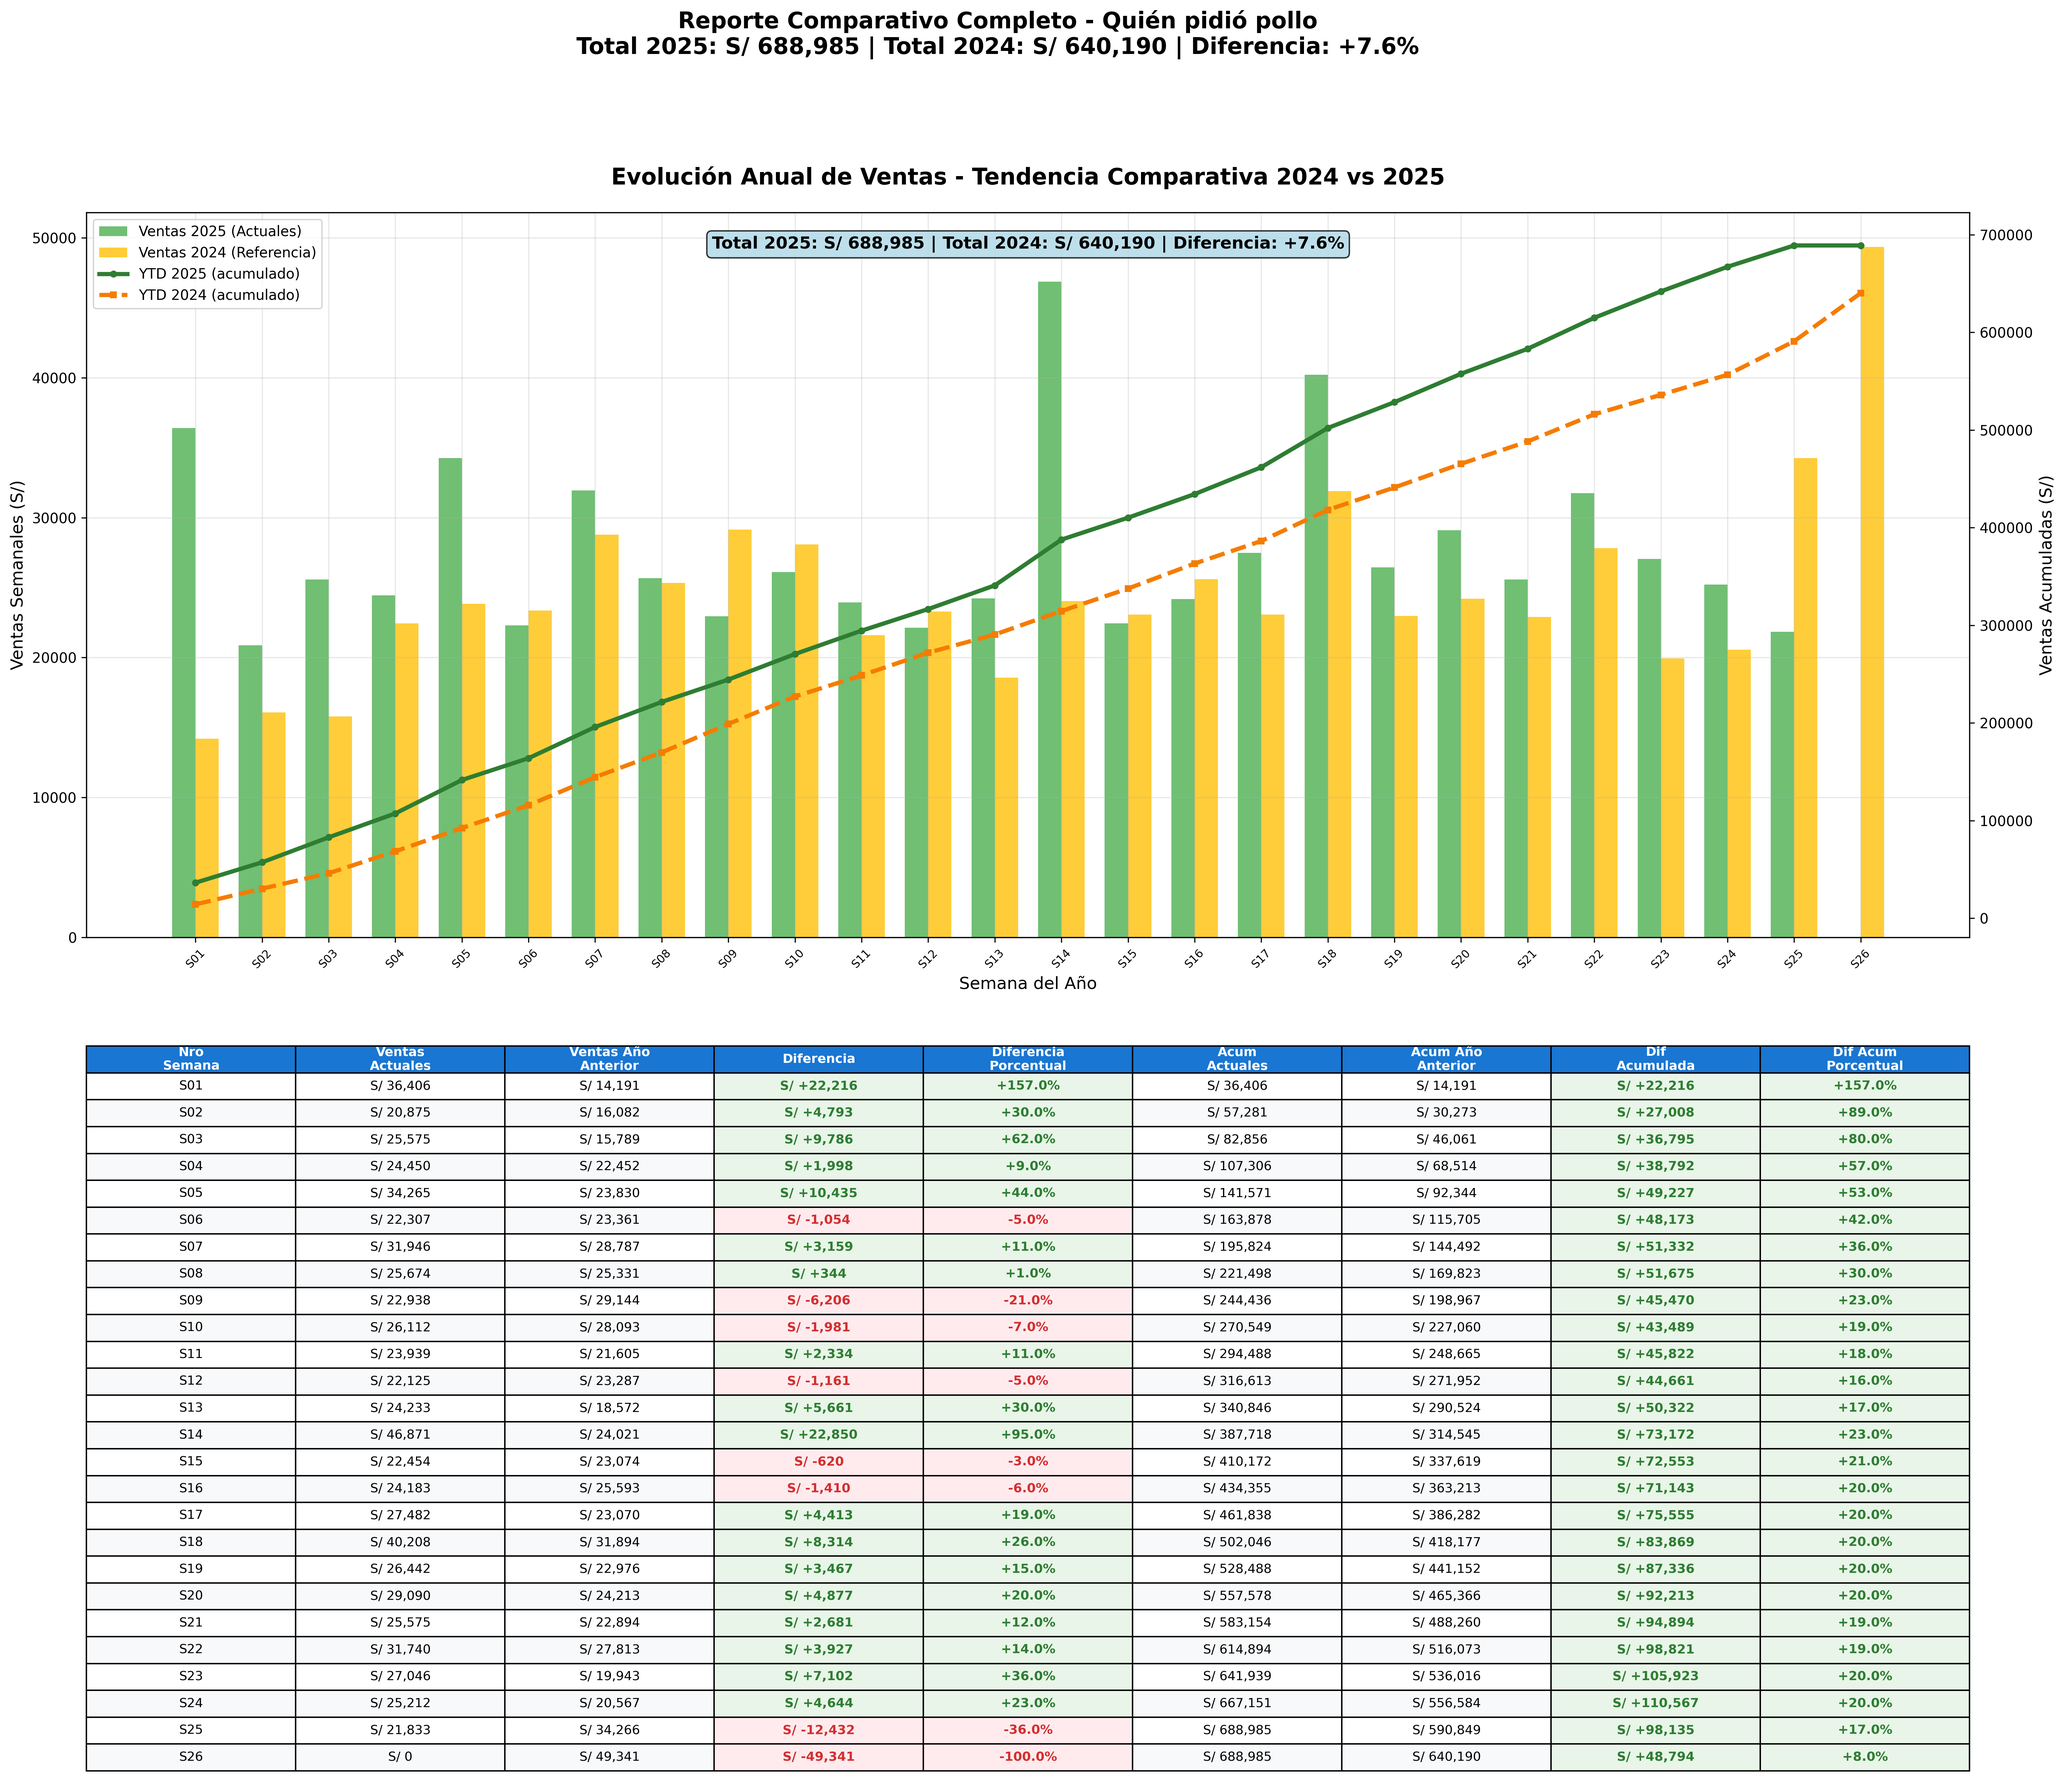
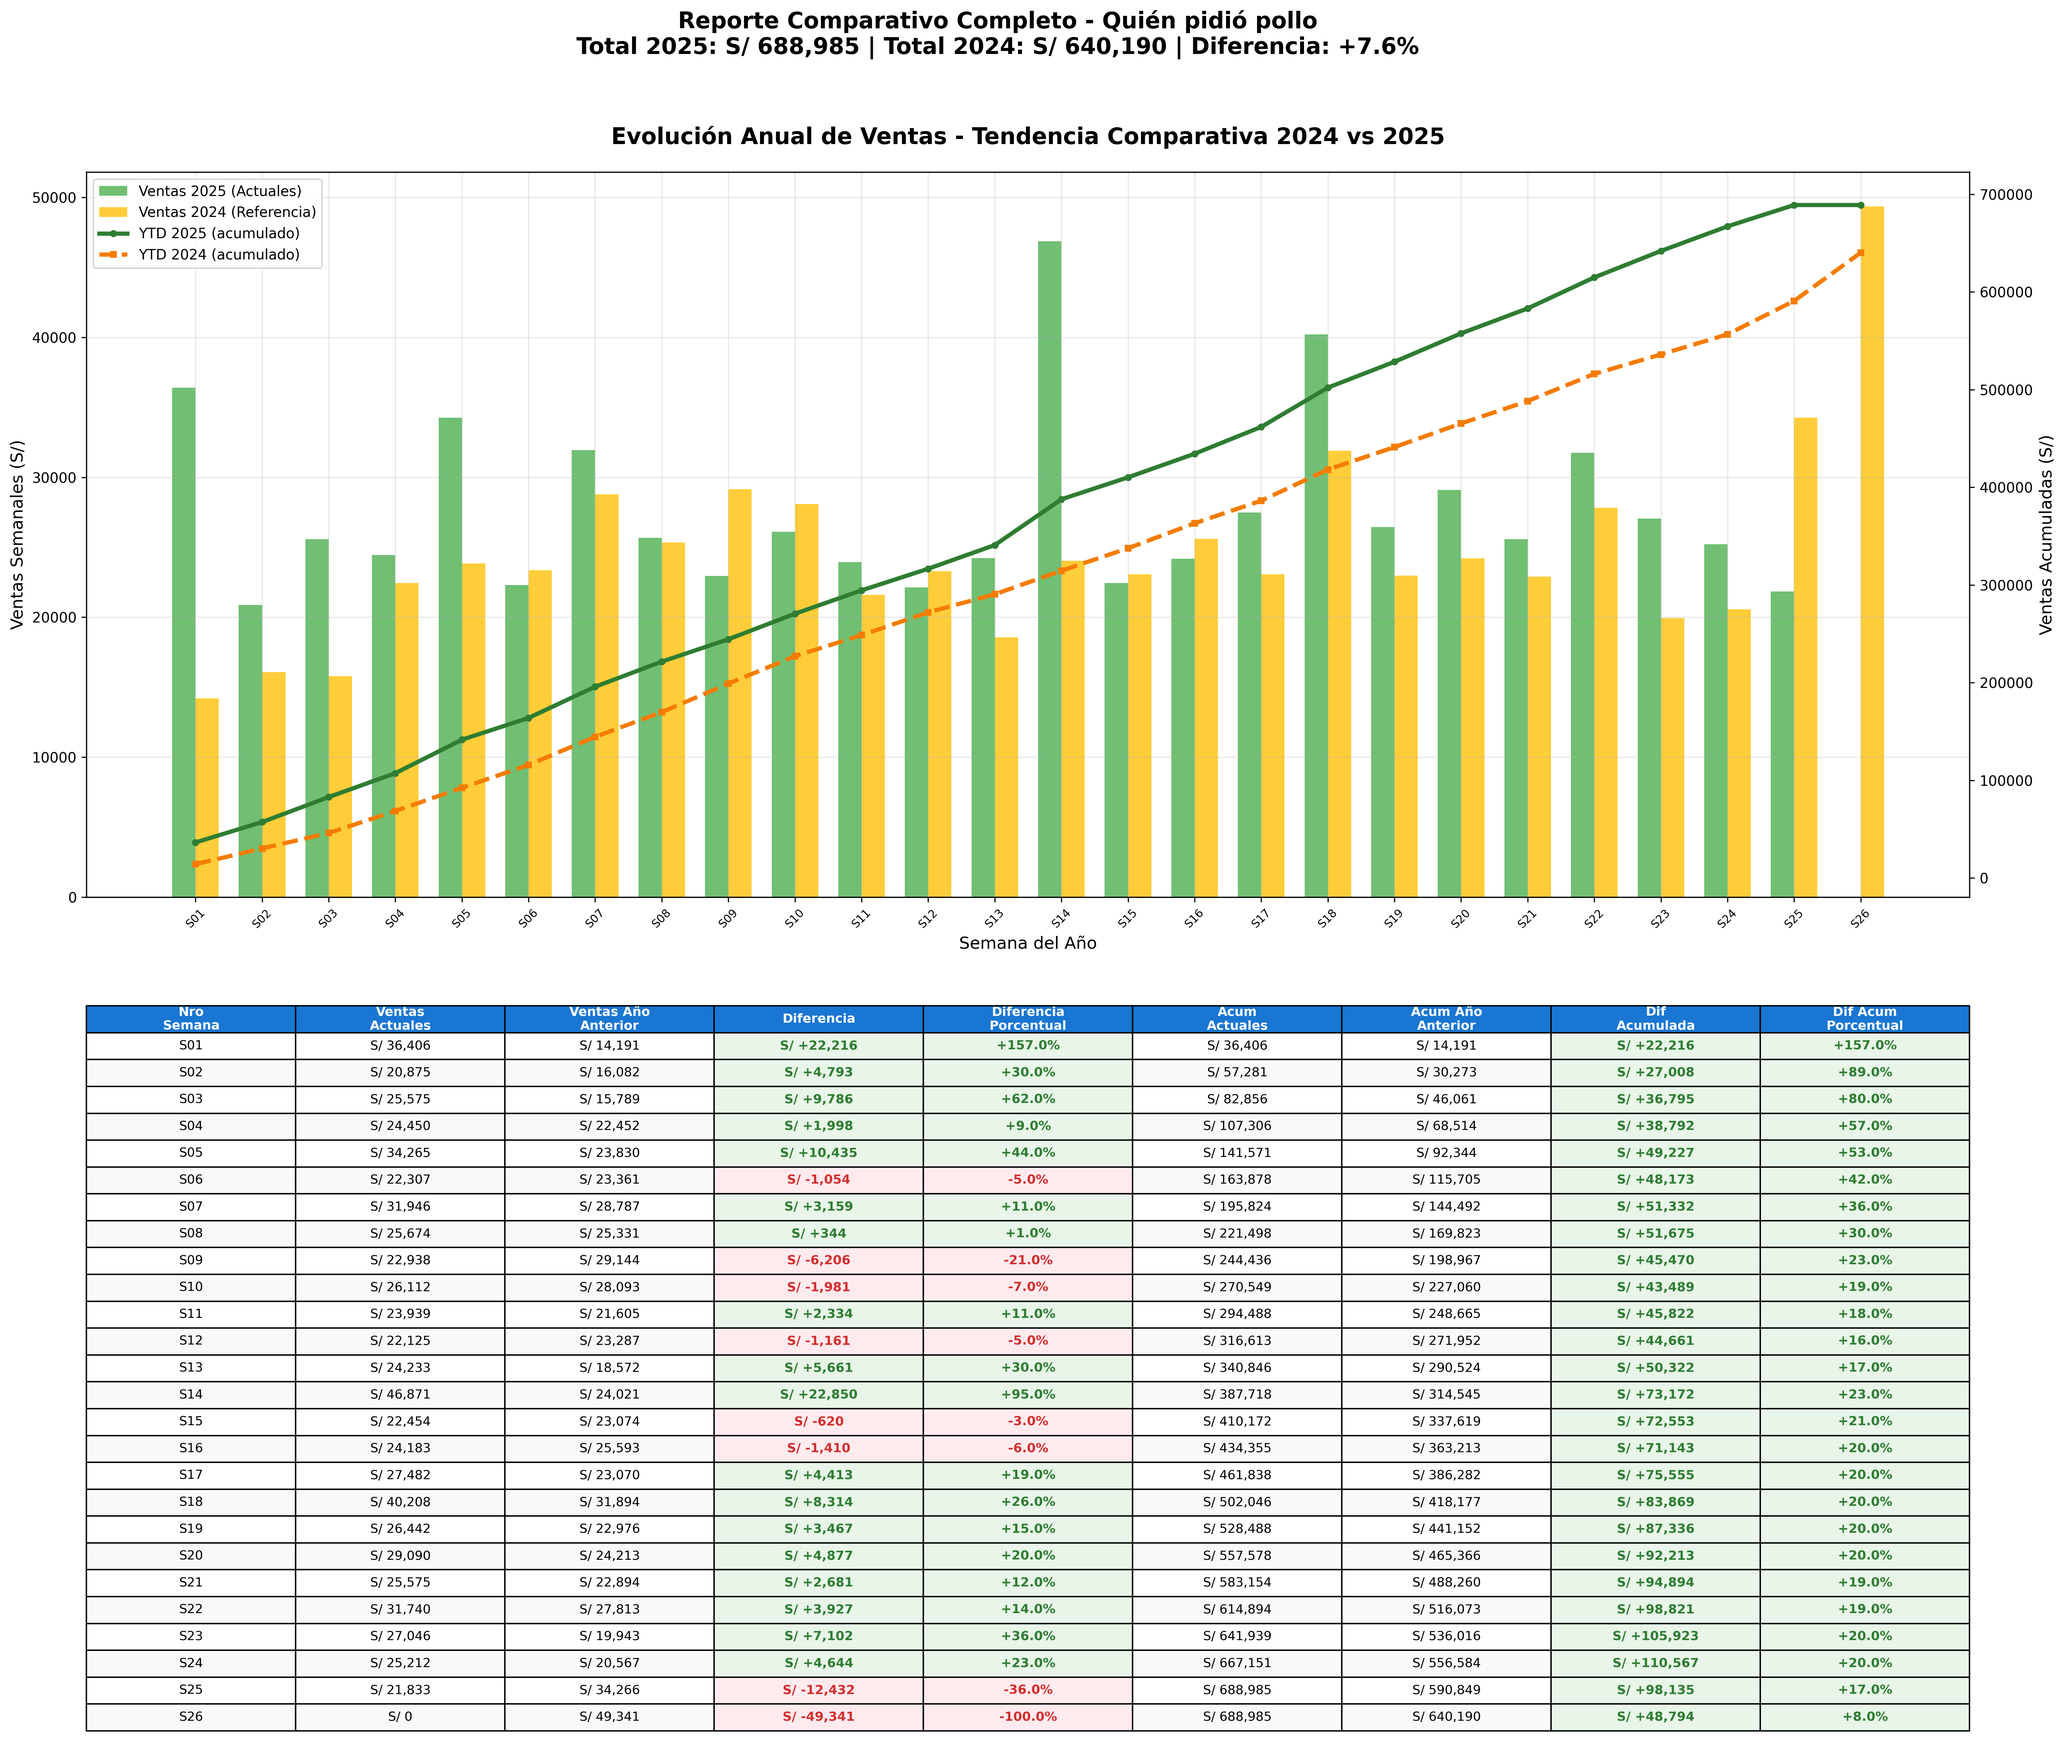
feat: adad new changes about config local vs production

diff --git a/reporte1.py b/reporte1.py
@@ -53,14 +53,21 @@ TABLE_NEGOCIOS_ID = 'Negocios'
 # FECHA_FIN = '2025-06-15'
  
 # FECHA_FIN es el último día de la semana (domingo) y FECHA_INICIO es el primer día de la semana (lunes), cálculo automático
+# hoy = datetime.today()
+# FECHA_FIN = hoy - timedelta(days=(hoy.weekday() - 6) % 7)
+# FECHA_INICIO = FECHA_FIN - timedelta(days=6)
+# FECHA_FIN = FECHA_FIN.strftime('%Y-%m-%d')
+# FECHA_INICIO = FECHA_INICIO.strftime('%Y-%m-%d')
+
 hoy = datetime.today()
-FECHA_FIN = hoy - timedelta(days=(hoy.weekday() - 6) % 7)
-FECHA_INICIO = FECHA_FIN - timedelta(days=6)
-FECHA_FIN = FECHA_FIN.strftime('%Y-%m-%d')
-FECHA_INICIO = FECHA_INICIO.strftime('%Y-%m-%d')
+primer_dia_mes_actual = hoy.replace(day=1)
+ultimo_dia_mes_anterior = primer_dia_mes_actual - timedelta(days=1)
+primer_dia_mes_anterior = ultimo_dia_mes_anterior.replace(day=1)
+FECHA_INICIO = primer_dia_mes_anterior.strftime('%Y-%m-%d')
+FECHA_FIN = ultimo_dia_mes_anterior.strftime('%Y-%m-%d')
+
 
 LOCATARIO_EXCLUIDO = 'Bar Refugio'
-
 
 # BigQuery client
 credentials = service_account.Credentials.from_service_account_file(SERVICE_ACCOUNT_FILE)
@@ -143,10 +150,10 @@ def generar_reporte_ranking_global():
     month_fin = month_map[datetime.strptime(FECHA_FIN, '%Y-%m-%d').month]    
     subititle = ''
     if month_inicio == month_fin:
-        subititle = f"Del {day_inicio} al {day_fin} de {month_inicio} de 2025"
+        subititle = f"Del {day_inicio} al {day_fin} de {month_inicio} de {datetime.strptime(FECHA_INICIO, '%Y-%m-%d').year}"
     else:
-        subititle = f"Del {day_inicio} de {month_inicio} al {day_fin} de {month_fin} de 2025" 
-    plt.title('Ranking Global de Ventas Semanal'
+        subititle = f"Del {day_inicio} de {month_inicio} al {day_fin} de {month_fin} de {datetime.strptime(FECHA_INICIO, '%Y-%m-%d').year}" 
+    plt.title('Ranking Global de Ventas Mensual de Locatarios' +
                 f"\n{subititle}", fontsize=16, weight='bold')
     
     plt.xlabel('Puesto en el raking en base al Total de Ventas')
@@ -157,7 +164,7 @@ def generar_reporte_ranking_global():
     ax.set_xticks([])  # Oculta los valores del eje x
     plt.tight_layout()
     os.makedirs(OUTPUT_FOLDER, exist_ok=True)
-    plt.savefig(f"{OUTPUT_FOLDER}/ranking_global_semanal.png")
+    plt.savefig(f"{OUTPUT_FOLDER}/ranking_global_mensual.png")
     plt.close()
     print('Reporte global generado en ', OUTPUT_FOLDER)
 

diff --git a/reporte3.py b/reporte3.py
@@ -287,10 +287,10 @@ def generar_reporte_comparativo_con_tabla(restaurante):
     porcentaje_total = (diferencia_total / total_comparacion * 100) if total_comparacion != 0 else 0
     
     # Texto de estadísticas en el gráfico
-    stats_text = f"Total {ANIO_ACTUAL}: S/ {total_actual:,.0f} | Total {ANIO_COMPARACION}: S/ {total_comparacion:,.0f} | Diferencia: {porcentaje_total:+.1f}%"
-    ax_main.text(0.5, 0.95, stats_text, transform=ax_main.transAxes, 
-                bbox=dict(boxstyle="round,pad=0.3", facecolor="lightblue", alpha=0.8),
-                fontsize=12, fontweight='bold', ha='center')
+    # stats_text = f"Total {ANIO_ACTUAL}: S/ {total_actual:,.0f} | Total {ANIO_COMPARACION}: S/ {total_comparacion:,.0f} | Diferencia: {porcentaje_total:+.1f}%"
+    # ax_main.text(0.5, 0.95, stats_text, transform=ax_main.transAxes, 
+    #             bbox=dict(boxstyle="round,pad=0.3", facecolor="lightblue", alpha=0.8),
+    #             fontsize=12, fontweight='bold', ha='center')
       # === TABLA DE DATOS ===
     ax_table = fig.add_subplot(gs[1])
     ax_table.axis('off')
@@ -354,7 +354,7 @@ def generar_reporte_comparativo_con_tabla(restaurante):
     fig.suptitle(f'Reporte Comparativo Completo - {restaurante}\n'
                  f'Total {ANIO_ACTUAL}: S/ {total_actual:,.0f} | Total {ANIO_COMPARACION}: S/ {total_comparacion:,.0f} | '
                  f'Diferencia: {porcentaje_total:+.1f}%', 
-                 fontsize=16, fontweight='bold', y=0.98)
+                 fontsize=16, fontweight='bold', y=0.96)
     
     # Guardar archivos
     os.makedirs(OUTPUT_FOLDER, exist_ok=True)
